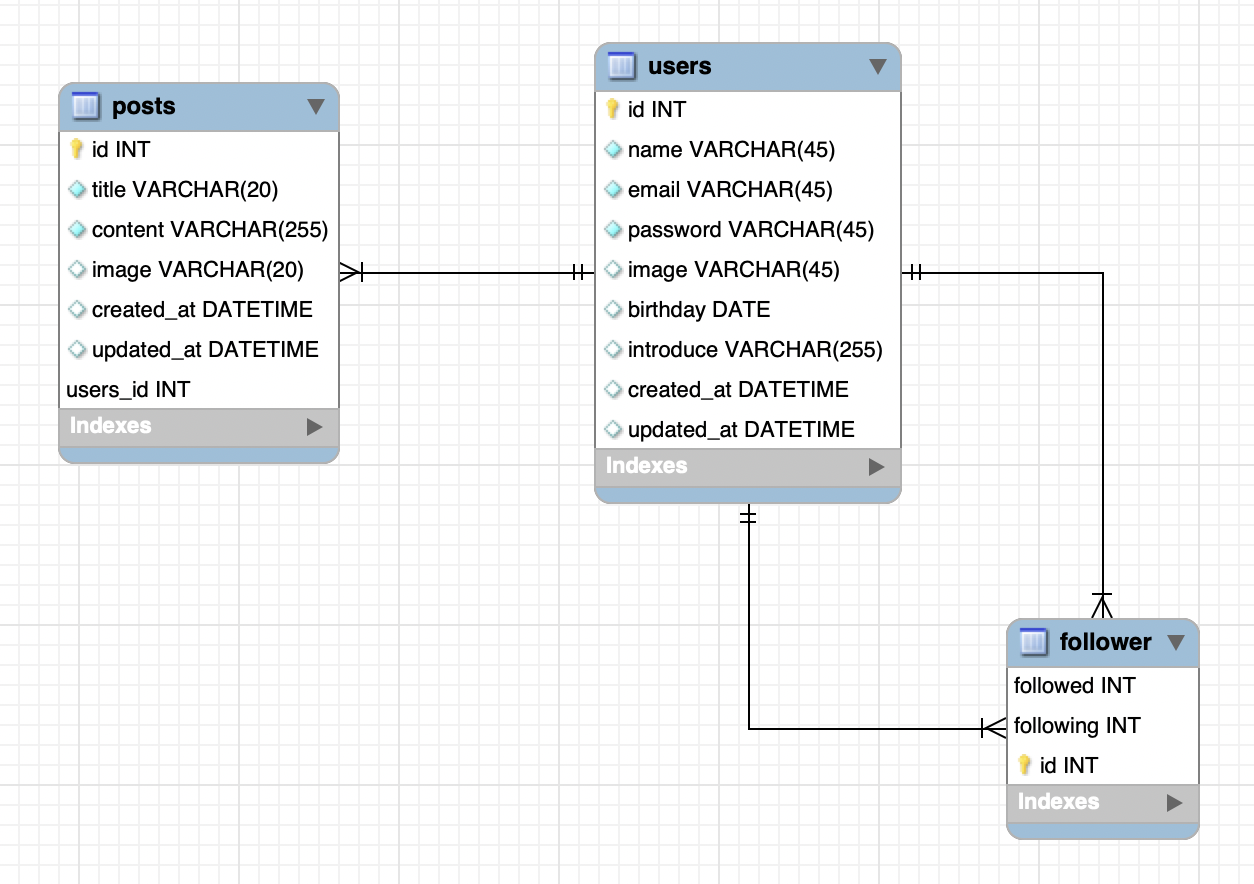
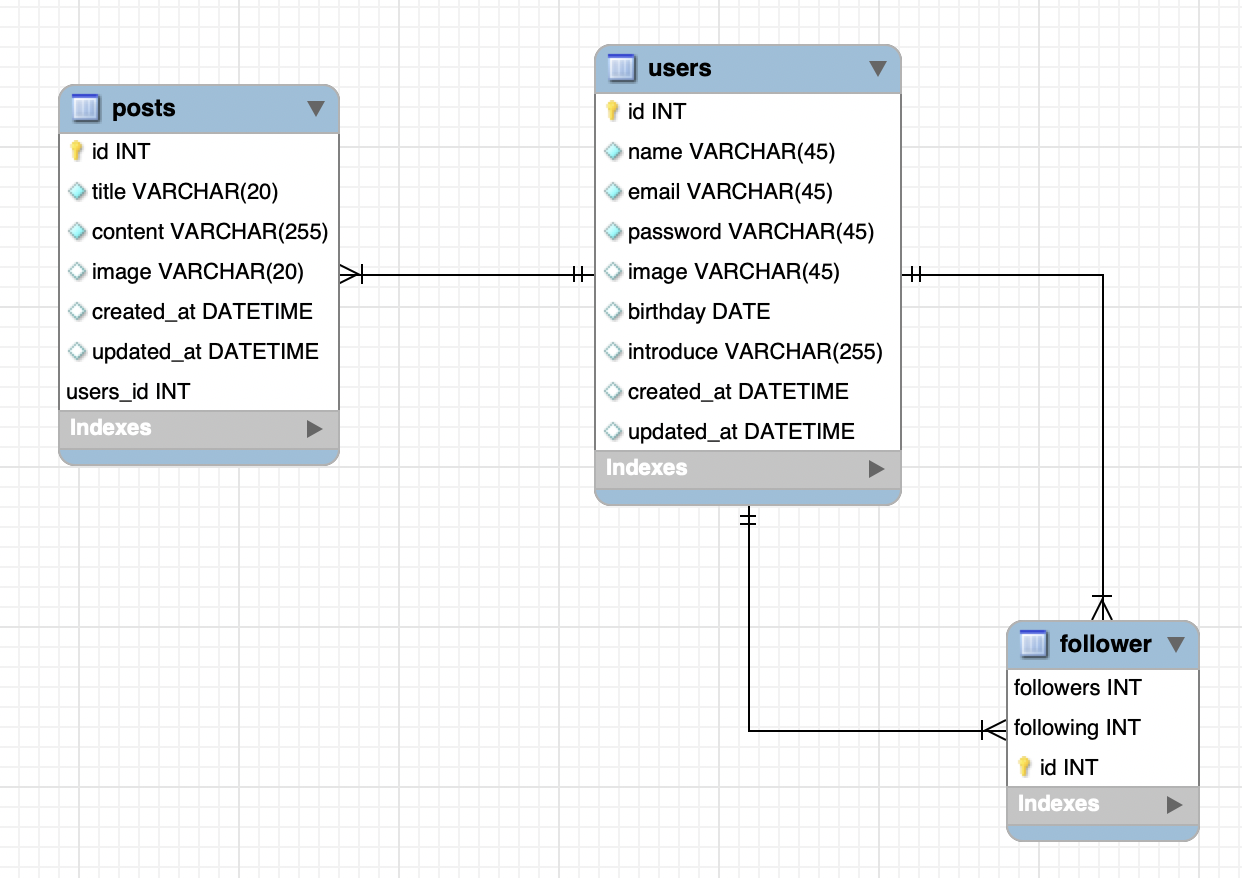
検索機能追加

diff --git a/app.rb b/app.rb
@@ -56,9 +56,14 @@ post '/login' do
   email = params[:email]
   password = params[:password]
   user = db.exec_params("select * from users where email = $1 and password = $2",[email, password]).first
-  session[:id] = user['id']
-  session[:notice] = {key: "success", message: "ログインしました"}
-  redirect '/posts'
+  if user
+    session[:id] = user['id']
+    session[:notice] = {key: "success", message: "ログインしました"}
+    redirect '/posts'
+  else
+    session[:notice] = {key: "danger", message: "メールアドレスかパスワードが間違っています"}
+    redirect '/login'
+  end
 end
 
 get '/logout' do
@@ -158,7 +163,7 @@ get '/mypage/:id/edit' do
 end
 
 post'/mypage/:id/update' do
-
+  
 end
 
 get '/search' do

diff --git a/README.md b/README.md
@@ -1,7 +1,13 @@
 # 簡易掲示板
 CODEBASE受講生向けの簡易掲示板サンプル
  
-## データベース構築
+## データベースについて
+ 
+### ER図
+ひとまず簡易掲示板なので、以下のような構成にする。
+<img width="621" alt="mybord_table" src="https://user-images.githubusercontent.com/56256994/76152344-e7339380-6101-11ea-9458-c1ddf7a9d21a.png">
+issueにコメントを残す予定。
+
 動作の確認をしたい方は、以下のSQL文を実行して下さい。
 ```
 CREATE DATABASE myboard;
@@ -33,7 +39,7 @@ CREATE TABLE posts(
 CREATE TABLE follower(
   id SERIAL NOT NULL PRIMARY KEY,
   following INTEGER NOT NULL,
-  followed INTEGER NOT NULL,
+  followers INTEGER NOT NULL,
   created_at TIMESTAMP NOT NULL DEFAULT CURRENT_TIMESTAMP,
   updated_at TIMESTAMP NOT NULL DEFAULT CURRENT_TIMESTAMP
 )
